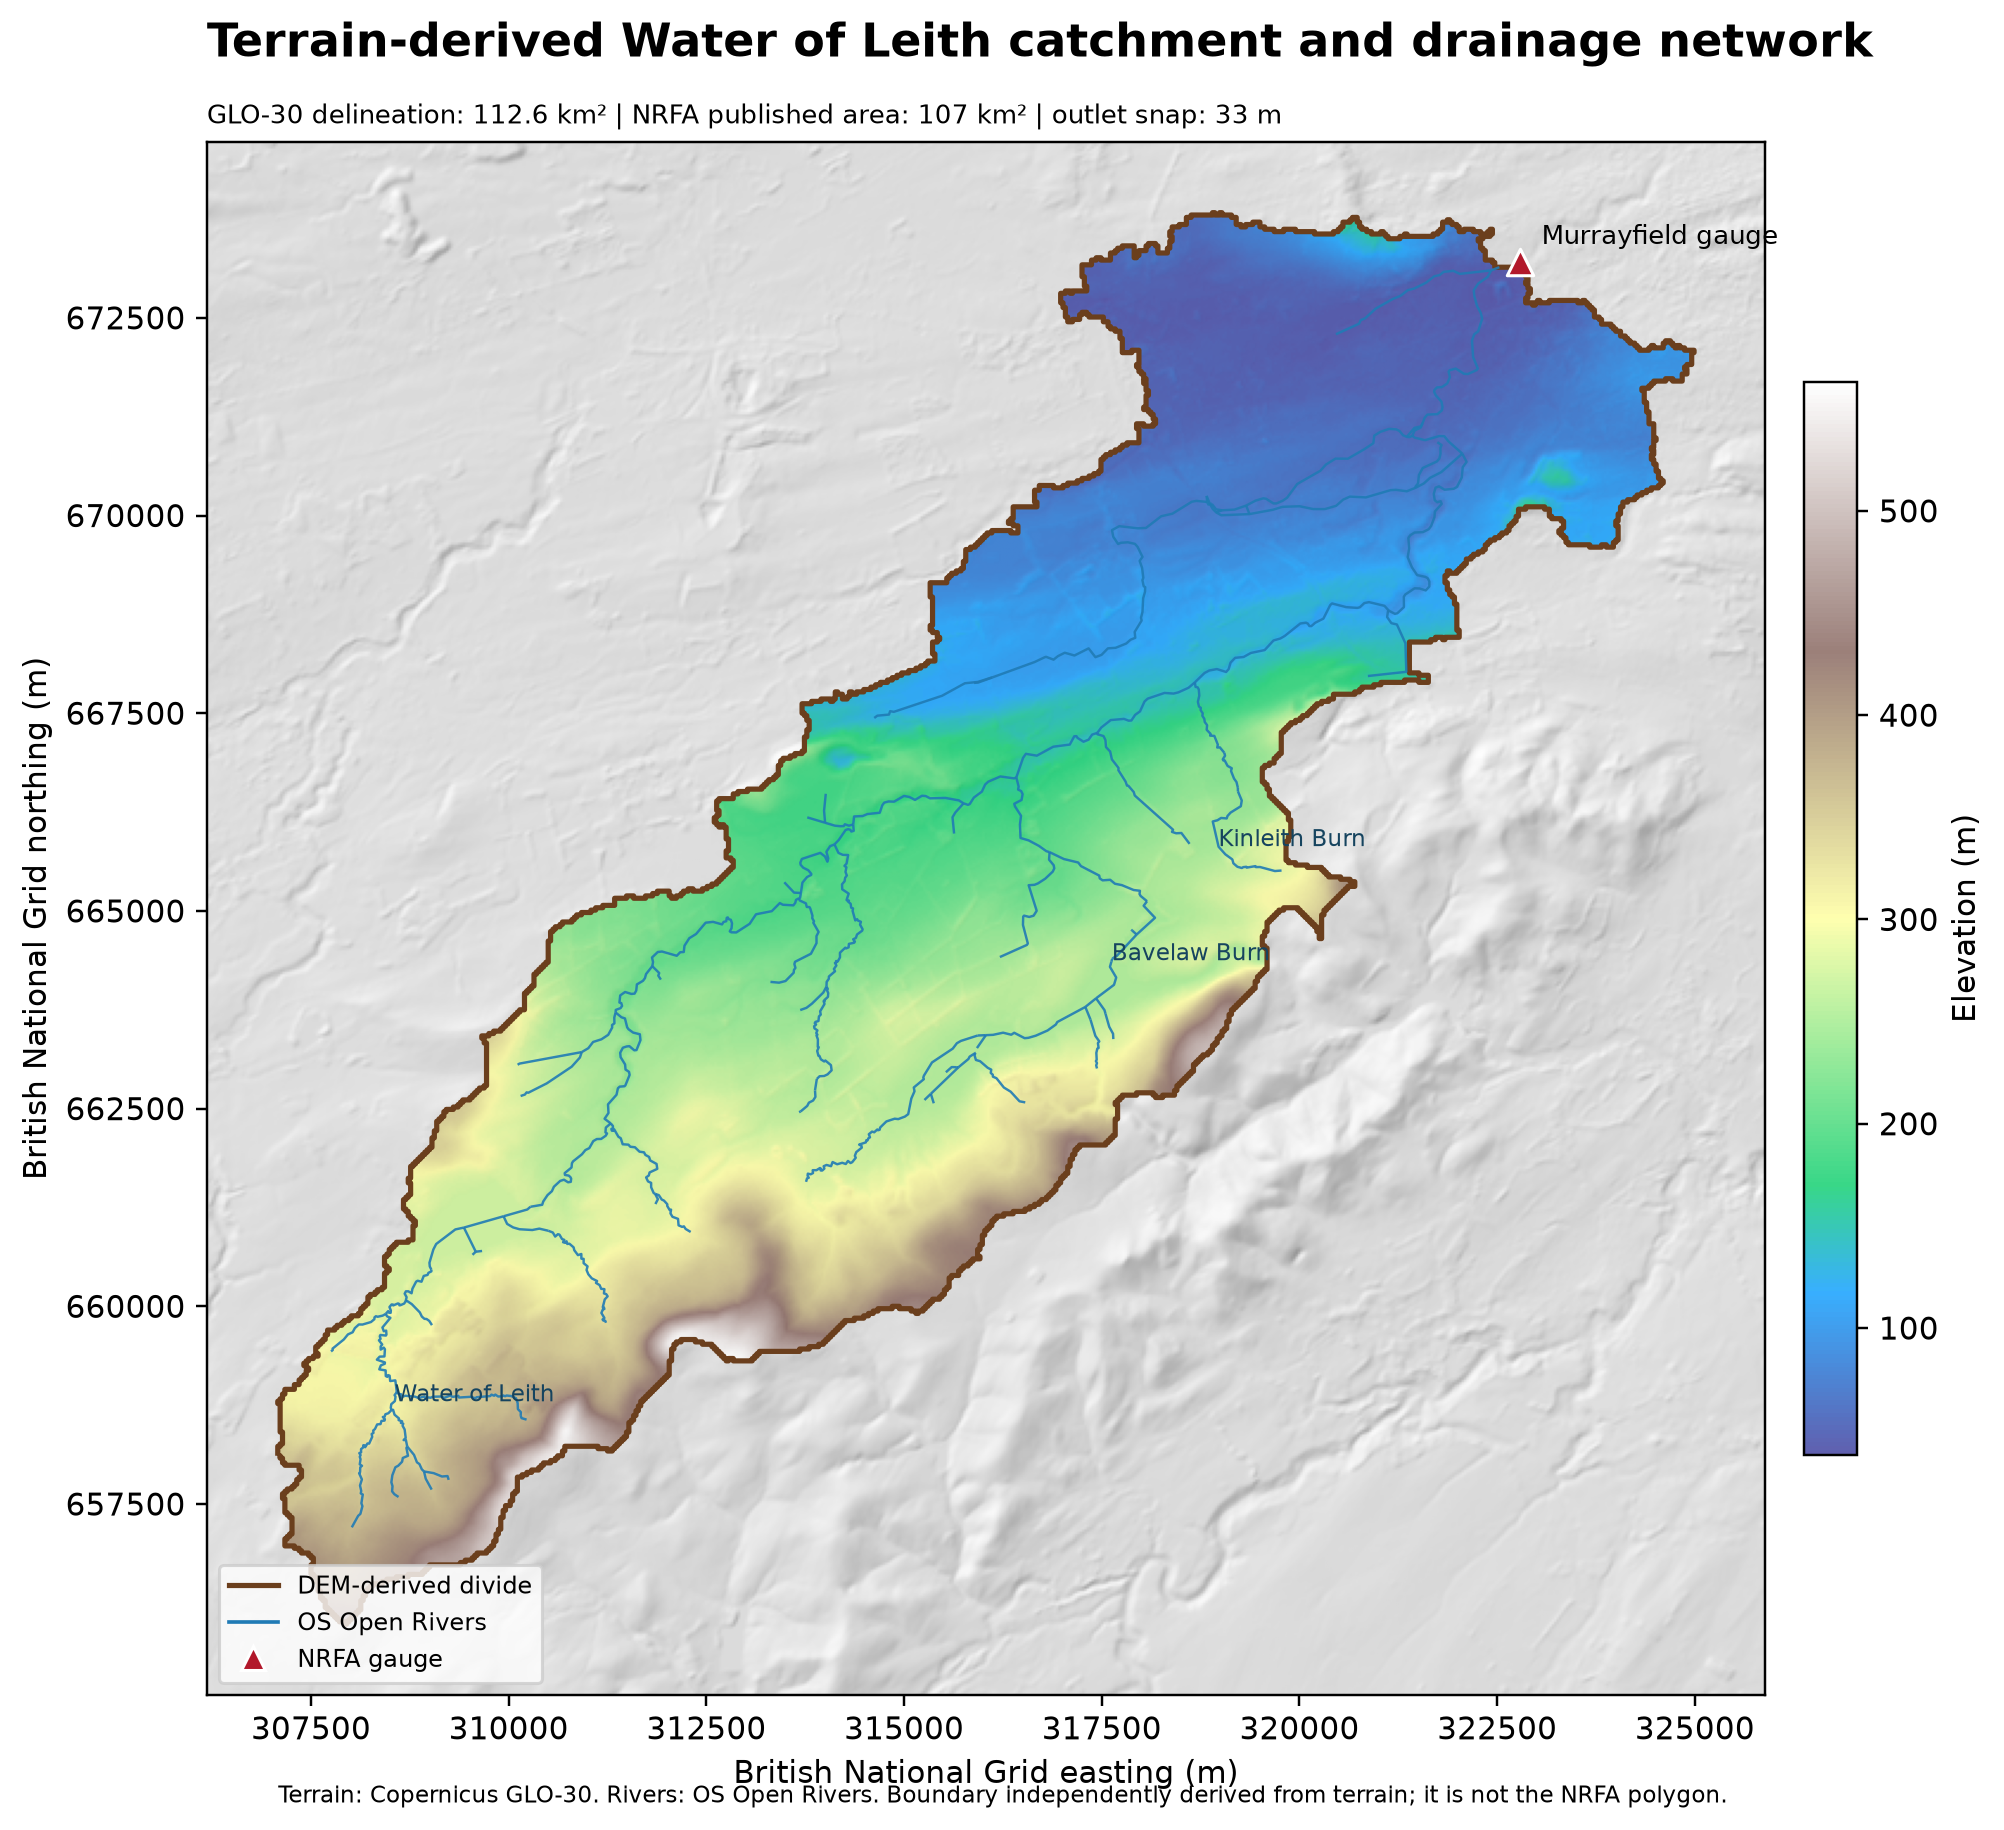
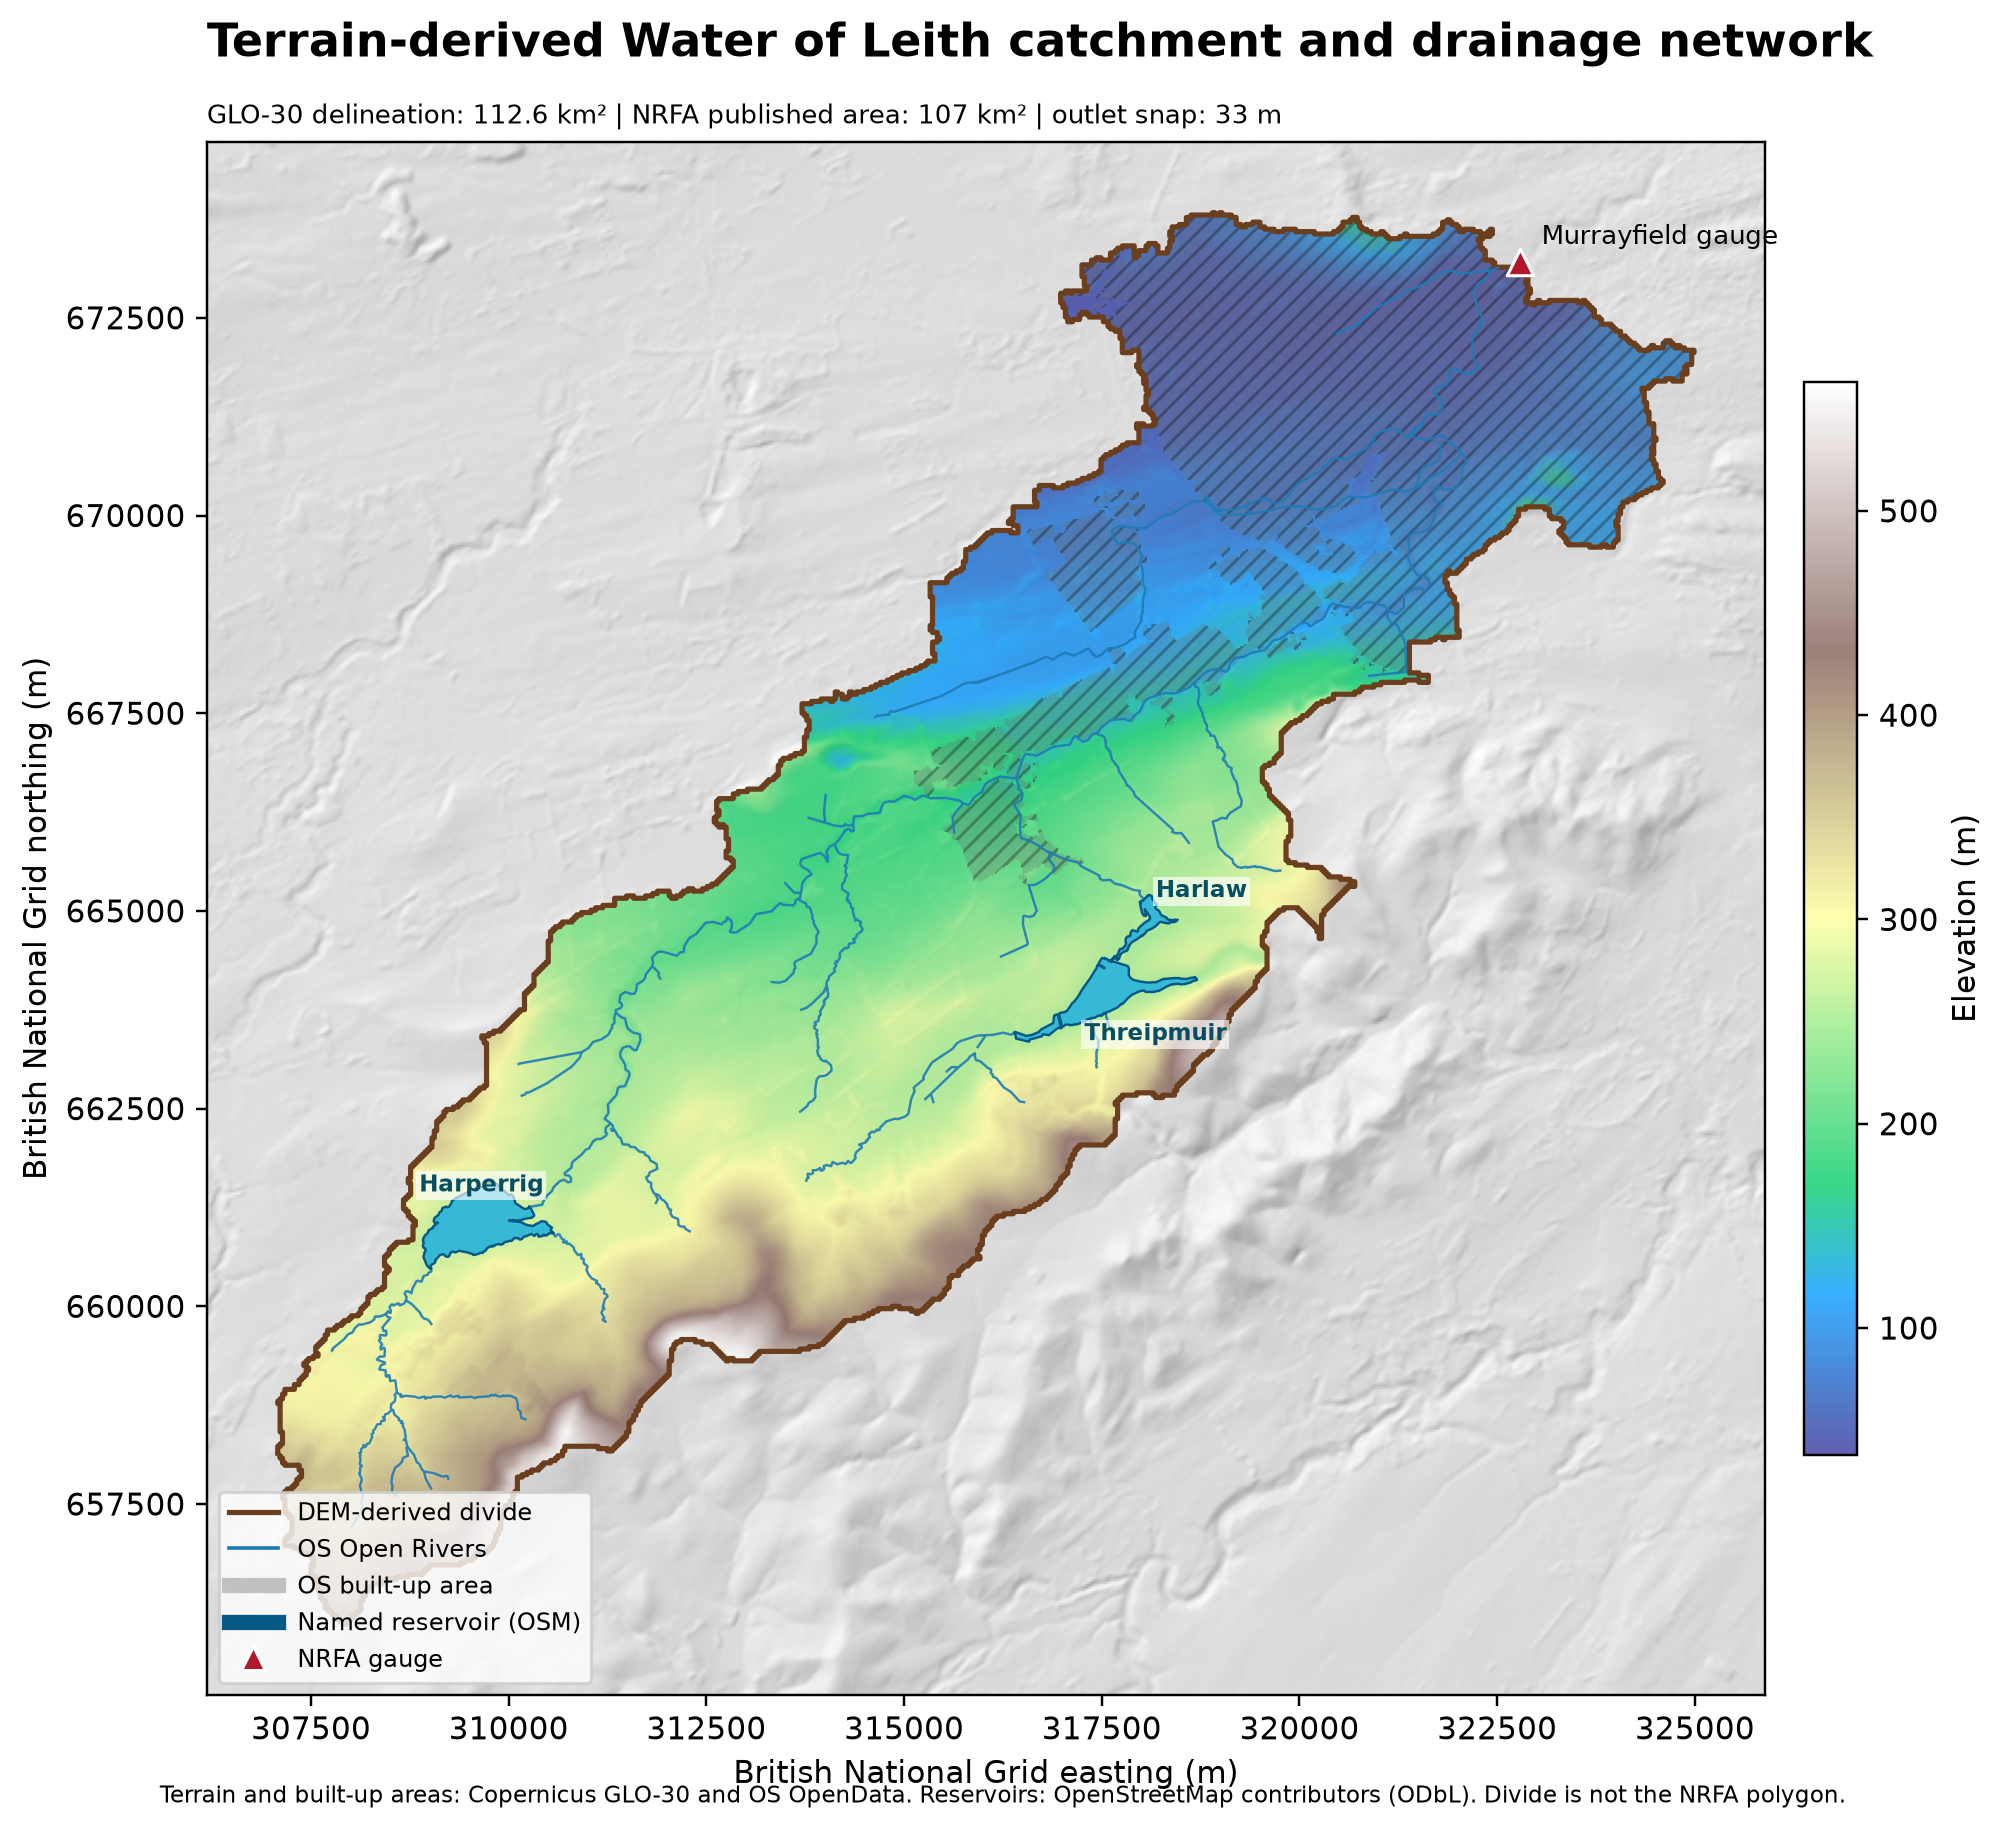
Add reservoirs and urban context

diff --git a/scripts/run_gis_analysis.py b/scripts/run_gis_analysis.py
@@ -131,10 +131,23 @@ def main() -> None:
         bbox=basin.bounds,
     )
     rivers = gpd.clip(rivers, basin_gdf)
+    built_up = gpd.read_file(
+        cache / "built_up_areas/os_open_built_up_areas.gpkg",
+        layer="os_open_built_up_areas",
+        bbox=basin.bounds,
+    )
+    built_up = gpd.clip(built_up, basin_gdf)
+    reservoirs = gpd.read_file(cache / "osm_named_reservoirs.geojson").to_crs("EPSG:27700")
+    reservoirs = gpd.clip(reservoirs, basin_gdf)
 
     valid_elevation = dem[catchment & np.isfinite(dem)]
     derived_area = cell_area_km2(catchment, CELL_SIZE)
     snap_distance = math.hypot(snapped_e - OUTLET_E, snapped_n - OUTLET_N)
+    built_up_area = float(built_up.geometry.area.sum() / 1_000_000)
+    reservoir_areas = {
+        row["name"]: float(row.geometry.area / 1_000_000)
+        for _, row in reservoirs.iterrows()
+    }
     summary = {
         "station": "Water of Leith at Murrayfield (NRFA 19006)",
         "outlet_easting_m": f"{OUTLET_E:.1f}",
@@ -149,7 +162,12 @@ def main() -> None:
         "median_elevation_m": f"{np.median(valid_elevation):.1f}",
         "maximum_elevation_m": f"{np.max(valid_elevation):.1f}",
         "mapped_river_segments": str(len(rivers)),
+        "built_up_area_km2": f"{built_up_area:.2f}",
+        "built_up_fraction_percent": f"{100 * built_up_area / derived_area:.2f}",
+        "mapped_named_reservoirs": str(len(reservoirs)),
     }
+    for name, area in reservoir_areas.items():
+        summary[f"{name.lower().replace(' ', '_')}_area_km2"] = f"{area:.3f}"
     with (outputs / "gis_catchment_summary.csv").open("w", newline="", encoding="utf-8") as handle:
         writer = csv.writer(handle)
         writer.writerow(["metric", "value"])
@@ -161,14 +179,34 @@ def main() -> None:
     extent = (bounds.left, bounds.right, bounds.bottom, bounds.top)
     ax.imshow(shade, extent=extent, origin="upper", cmap="gray", alpha=0.42)
     terrain = ax.imshow(masked_dem, extent=extent, origin="upper", cmap="terrain", alpha=0.78)
+    built_up.plot(
+        ax=ax, facecolor="#6f6f6f", edgecolor="none", alpha=0.28, hatch="////"
+    )
     basin_gdf.boundary.plot(ax=ax, color="#6b3f1d", linewidth=1.7)
     rivers.plot(ax=ax, color="#207bb5", linewidth=0.8, alpha=0.9)
-    named = rivers.dropna(subset=["watercourse_name"])
-    for name in ["Water of Leith", "Bavelaw Burn", "Bonaly Burn", "Kinleith Burn"]:
-        selection = named[named["watercourse_name"] == name]
-        if not selection.empty:
-            point = selection.geometry.iloc[0].interpolate(0.5, normalized=True)
-            ax.annotate(name, (point.x, point.y), fontsize=7.5, color="#16445f")
+    reservoirs.plot(
+        ax=ax, facecolor="#36b9d6", edgecolor="#075985", linewidth=0.8, zorder=5
+    )
+    label_offsets = {
+        "Harperrig Reservoir": (0, 11),
+        "Harlaw Reservoir": (18, 10),
+        "Threipmuir Reservoir": (18, -13),
+    }
+    for _, reservoir in reservoirs.iterrows():
+        point = reservoir.geometry.representative_point()
+        x_offset, y_offset = label_offsets[reservoir["name"]]
+        ax.annotate(
+            reservoir["name"].replace(" Reservoir", ""),
+            (point.x, point.y),
+            xytext=(x_offset, y_offset),
+            textcoords="offset points",
+            fontsize=7.5,
+            color="#064e62",
+            fontweight="bold",
+            ha="center",
+            zorder=7,
+            bbox={"facecolor": "white", "edgecolor": "none", "alpha": 0.65, "pad": 1},
+        )
     ax.scatter(OUTLET_E, OUTLET_N, marker="^", s=75, color="#b2182b", edgecolor="white", zorder=6)
     ax.annotate("Murrayfield gauge", (OUTLET_E, OUTLET_N), xytext=(7, 6), textcoords="offset points", fontsize=8.5)
     minx, miny, maxx, maxy = basin.bounds
@@ -196,6 +234,8 @@ def main() -> None:
         handles=[
             Line2D([0], [0], color="#6b3f1d", lw=1.7, label="DEM-derived divide"),
             Line2D([0], [0], color="#207bb5", lw=1.2, label="OS Open Rivers"),
+            Line2D([0], [0], color="#6f6f6f", lw=5, alpha=0.4, label="OS built-up area"),
+            Line2D([0], [0], color="#075985", lw=5, label="Named reservoir (OSM)"),
             Line2D([0], [0], marker="^", color="none", markerfacecolor="#b2182b", markeredgecolor="white", markersize=8, label="NRFA gauge"),
         ],
         loc="lower left",
@@ -207,7 +247,7 @@ def main() -> None:
     fig.text(
         0.5,
         0.003,
-        "Terrain: Copernicus GLO-30. Rivers: OS Open Rivers. Boundary independently derived from terrain; it is not the NRFA polygon.",
+        "Terrain and built-up areas: Copernicus GLO-30 and OS OpenData. Reservoirs: OpenStreetMap contributors (ODbL). Divide is not the NRFA polygon.",
         ha="center",
         fontsize=7.5,
     )

diff --git a/scripts/download_gis_data.py b/scripts/download_gis_data.py
@@ -1,6 +1,8 @@
 """Download open terrain and river data used by the GIS figure."""
 
 from pathlib import Path
+import json
+import time
 from zipfile import ZipFile
 
 import requests
@@ -14,6 +16,15 @@ RIVERS_URL = (
     "https://api.os.uk/downloads/v1/products/OpenRivers/downloads"
     "?area=GB&format=GeoPackage&redirect"
 )
+BUILT_UP_URL = (
+    "https://api.os.uk/downloads/v1/products/BuiltUpAreas/downloads"
+    "?area=GB&format=GeoPackage&redirect"
+)
+RESERVOIRS = [
+    "Harlaw Reservoir, Edinburgh, Scotland",
+    "Threipmuir Reservoir, Edinburgh, Scotland",
+    "Harperrig Reservoir, Scotland",
+]
 
 
 def main() -> None:
@@ -34,6 +45,39 @@ def main() -> None:
     if not extracted.exists():
         with ZipFile(rivers_path) as archive:
             archive.extractall(extracted)
+
+    built_up_path = cache / "os_open_built_up_areas.zip"
+    if not built_up_path.exists():
+        response = requests.get(BUILT_UP_URL, timeout=180)
+        response.raise_for_status()
+        built_up_path.write_bytes(response.content)
+    built_up_extracted = cache / "built_up_areas"
+    if not built_up_extracted.exists():
+        with ZipFile(built_up_path) as archive:
+            archive.extractall(built_up_extracted)
+
+    reservoir_path = cache / "osm_named_reservoirs.geojson"
+    if not reservoir_path.exists():
+        features = []
+        headers = {"User-Agent": "water-of-leith-flood-hydrology/0.1"}
+        for index, name in enumerate(RESERVOIRS):
+            response = requests.get(
+                "https://nominatim.openstreetmap.org/search",
+                params={"q": name, "format": "geojson", "polygon_geojson": 1, "limit": 1},
+                headers=headers,
+                timeout=60,
+            )
+            response.raise_for_status()
+            results = response.json().get("features", [])
+            if not results:
+                raise RuntimeError(f"No OpenStreetMap geometry returned for {name}")
+            features.append(results[0])
+            if index < len(RESERVOIRS) - 1:
+                time.sleep(1)
+        reservoir_path.write_text(
+            json.dumps({"type": "FeatureCollection", "features": features}),
+            encoding="utf-8",
+        )
 
 
 if __name__ == "__main__":

diff --git a/README.md b/README.md
@@ -44,12 +44,16 @@ retrieved from the official public cloud store, reduced to the station 19006
 catchment and kept outside version control. The source catchment boundary is
 used for spatial selection but is not redistributed.
 
-The GIS analysis uses the 30 m **Copernicus DEM GLO-30** and **OS Open Rivers**.
-Both are downloaded from their official public distributions. The river data
-are OS OpenData under the Open Government Licence; contains OS data © Crown
-copyright and database right 2026. The terrain-derived divide shown here is an
-independent analytical result, not a copy or derivative of the restricted NRFA
-catchment polygon.
+The GIS analysis uses the 30 m [Copernicus DEM GLO-30](https://registry.opendata.aws/copernicus-dem/)
+and [OS Open Rivers](https://osdatahub.os.uk/data/downloads/open/OpenRivers).
+[OS Open Built Up Areas](https://osdatahub.os.uk/downloads/open/BuiltUpAreas)
+provides the urban extent, while three named reservoir polygons are retrieved
+from [OpenStreetMap](https://www.openstreetmap.org/copyright). The OS products
+are OpenData under the Open Government Licence; contains OS data © Crown
+copyright and database right 2026. OpenStreetMap data are © OpenStreetMap
+contributors and available under the Open Database Licence. The terrain-derived
+divide shown here is an independent analytical result, not a copy or derivative
+of the restricted NRFA catchment polygon.
 
 ## Analytical workflow
 
@@ -128,7 +132,8 @@ quality indicators were calculated for each event in the 1992–2016 overlap.
 Copernicus GLO-30 elevation was projected to British National Grid at 30 m,
 hydrologically conditioned, and delineated from the published station location.
 OS Open Rivers was burned 10 m into the surface to reconnect channels interrupted
-by bridges and urban surface features, then clipped to the independently derived
+by bridges and urban surface features. The river network, OS built-up extents and
+three named reservoir polygons were then clipped to the independently derived
 watershed. This produced a reproducible topographic context without publishing
 the licence-restricted NRFA boundary geometry.
 
@@ -466,7 +471,10 @@ The mapped outlet is 33 m from the published Murrayfield coordinate after
 snapping to the conditioned drainage grid. The independently delineated area is
 **112.56 km²**, 5.20% larger than NRFA's rounded published value of 107 km².
 Catchment elevations range from 37.9 to 563.1 m, with a median of 227.5 m, and
-108 OS Open Rivers segments intersect the derived watershed.
+108 OS Open Rivers segments intersect the derived watershed. OS built-up
+polygons occupy **30.47 km² (27.07%)** of the derived basin. The mapped surface
+areas of Harperrig, Threipmuir and Harlaw reservoirs are approximately 0.876,
+0.546 and 0.118 km², respectively.
 
 The area difference is a diagnostic of DEM resolution, stream burning, outlet
 location and topographic conditioning; it is not evidence that the NRFA area is
@@ -521,12 +529,12 @@ The analysis writes QA diagnostics, annual maxima and fitted return levels to
 
 ## Next analyses
 
-1. Add openly licensed reservoir and urban-land-cover layers if sources with
-   adequate scale, provenance and redistribution terms are identified.
-2. Compare the transparent estimates with legitimately obtained FEH results,
+1. Compare the transparent estimates with legitimately obtained FEH results,
    without redistributing licensed inputs.
-3. Evaluate predictive models only after defining a leakage-safe temporal
+2. Evaluate predictive models only after defining a leakage-safe temporal
    validation design and physically interpretable predictor set.
+3. Test whether event timing and magnitude vary systematically with season and
+   antecedent catchment wetness using open observations.
 
 ## Software licence
 
